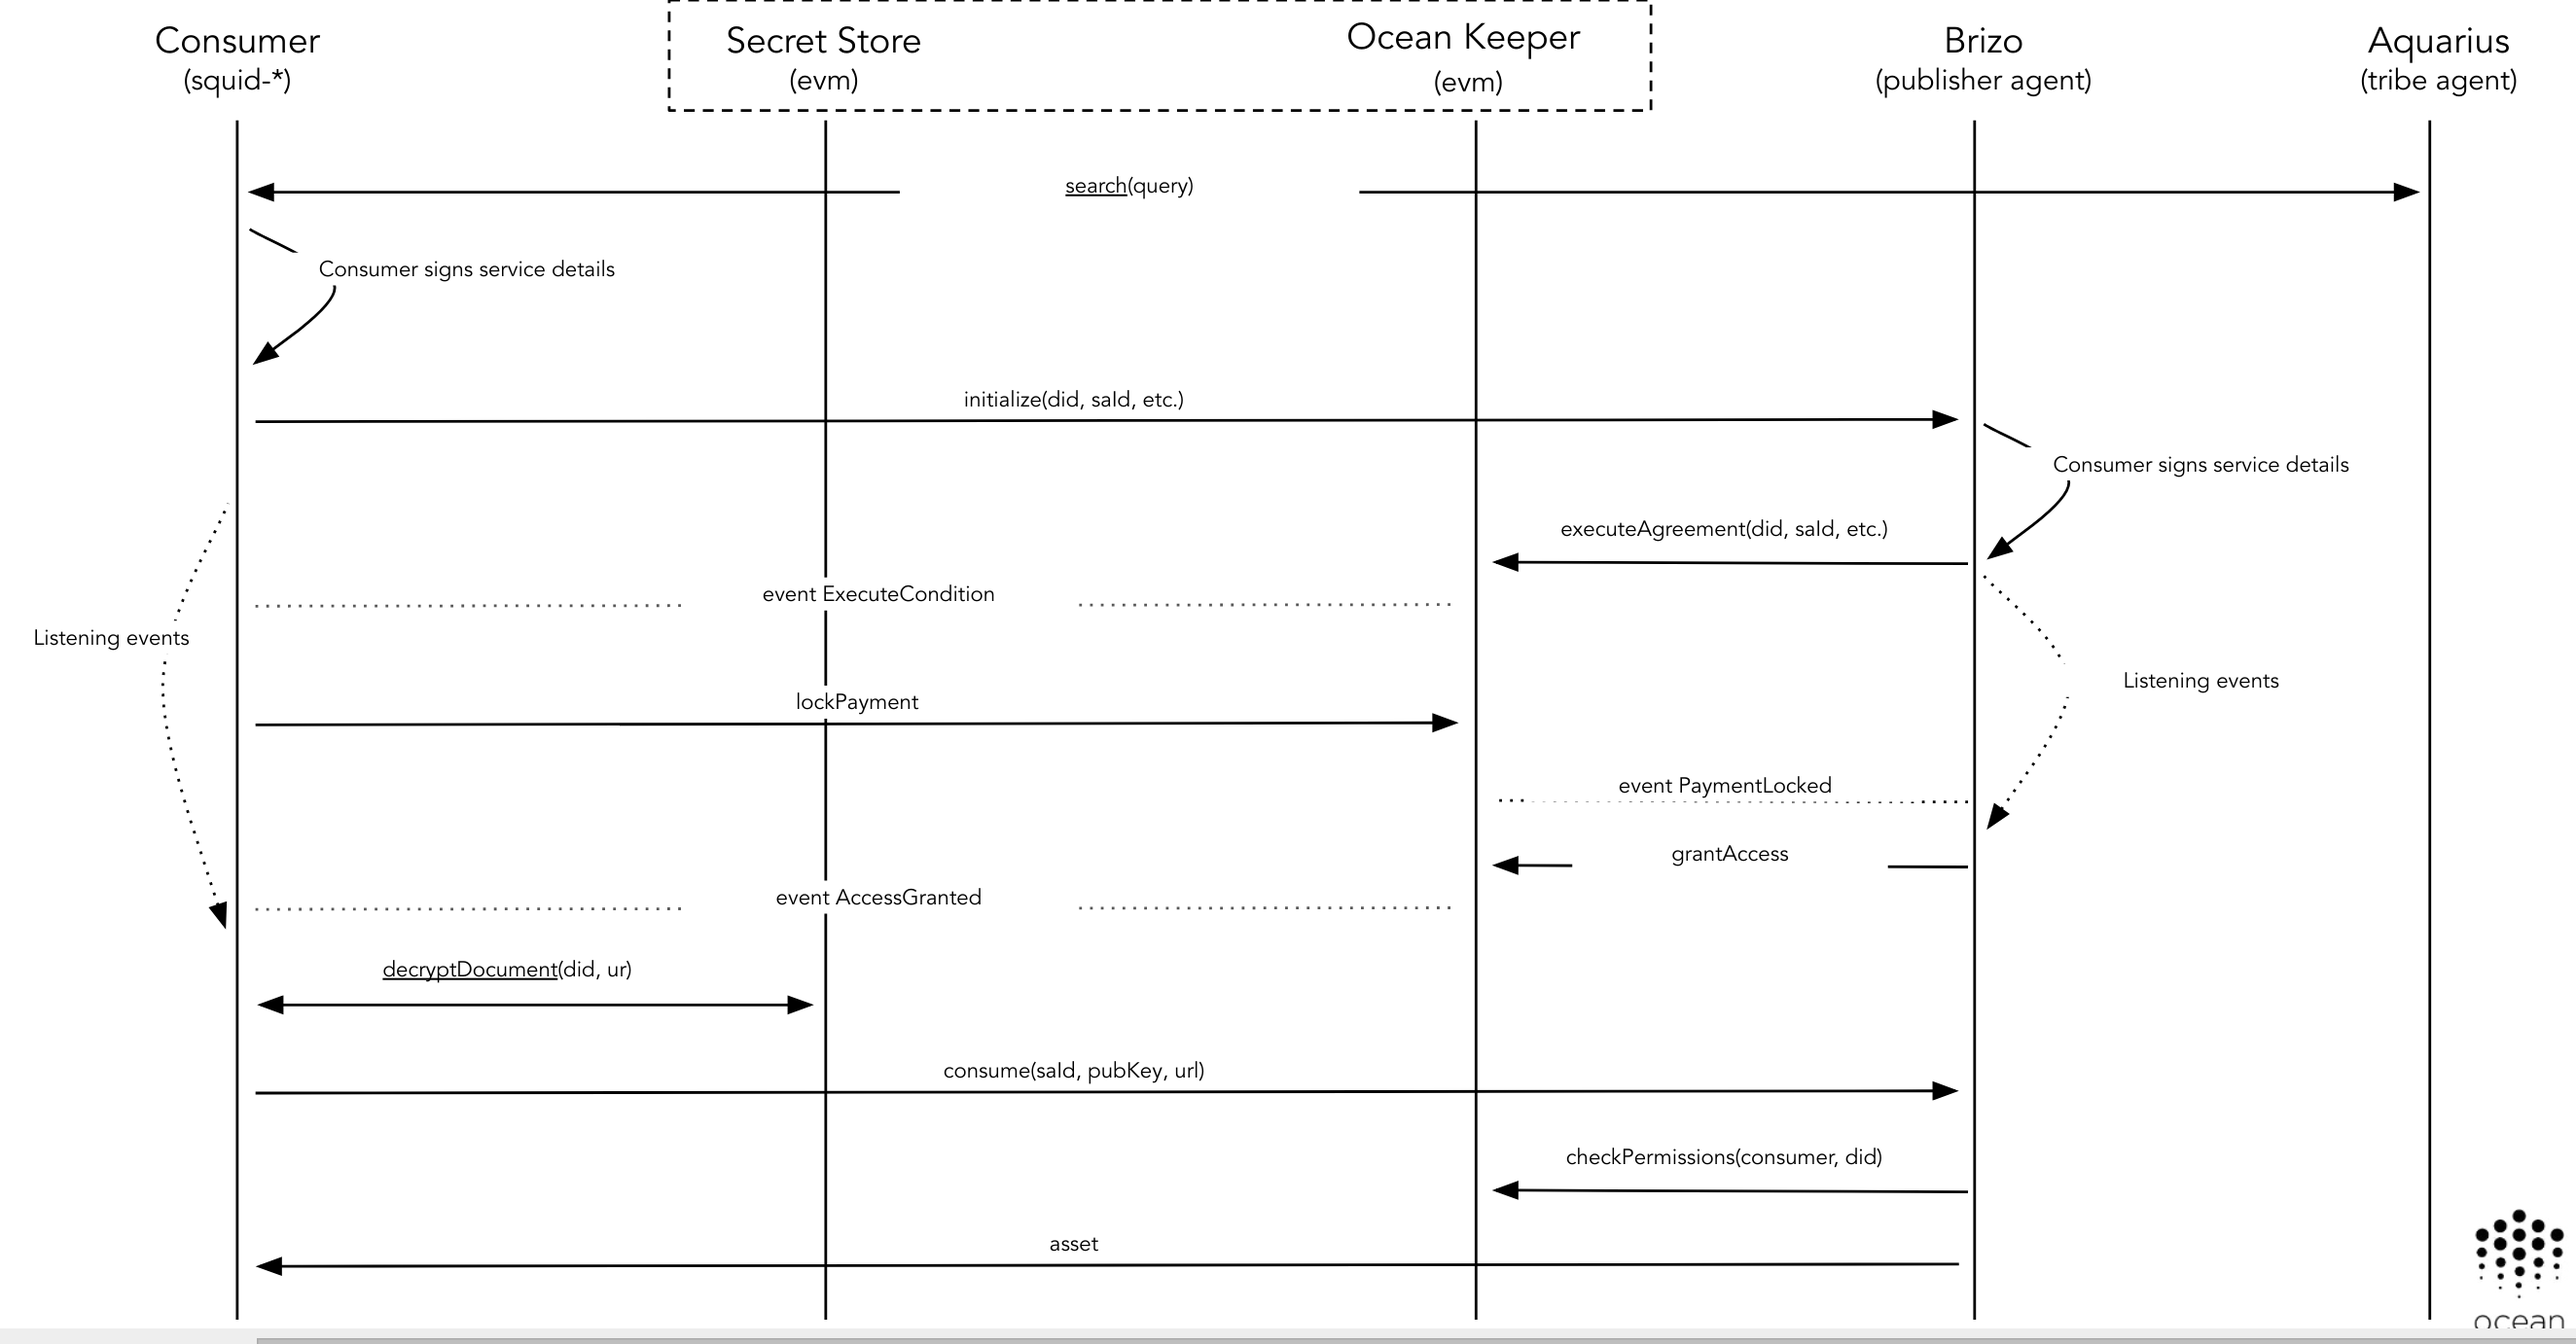
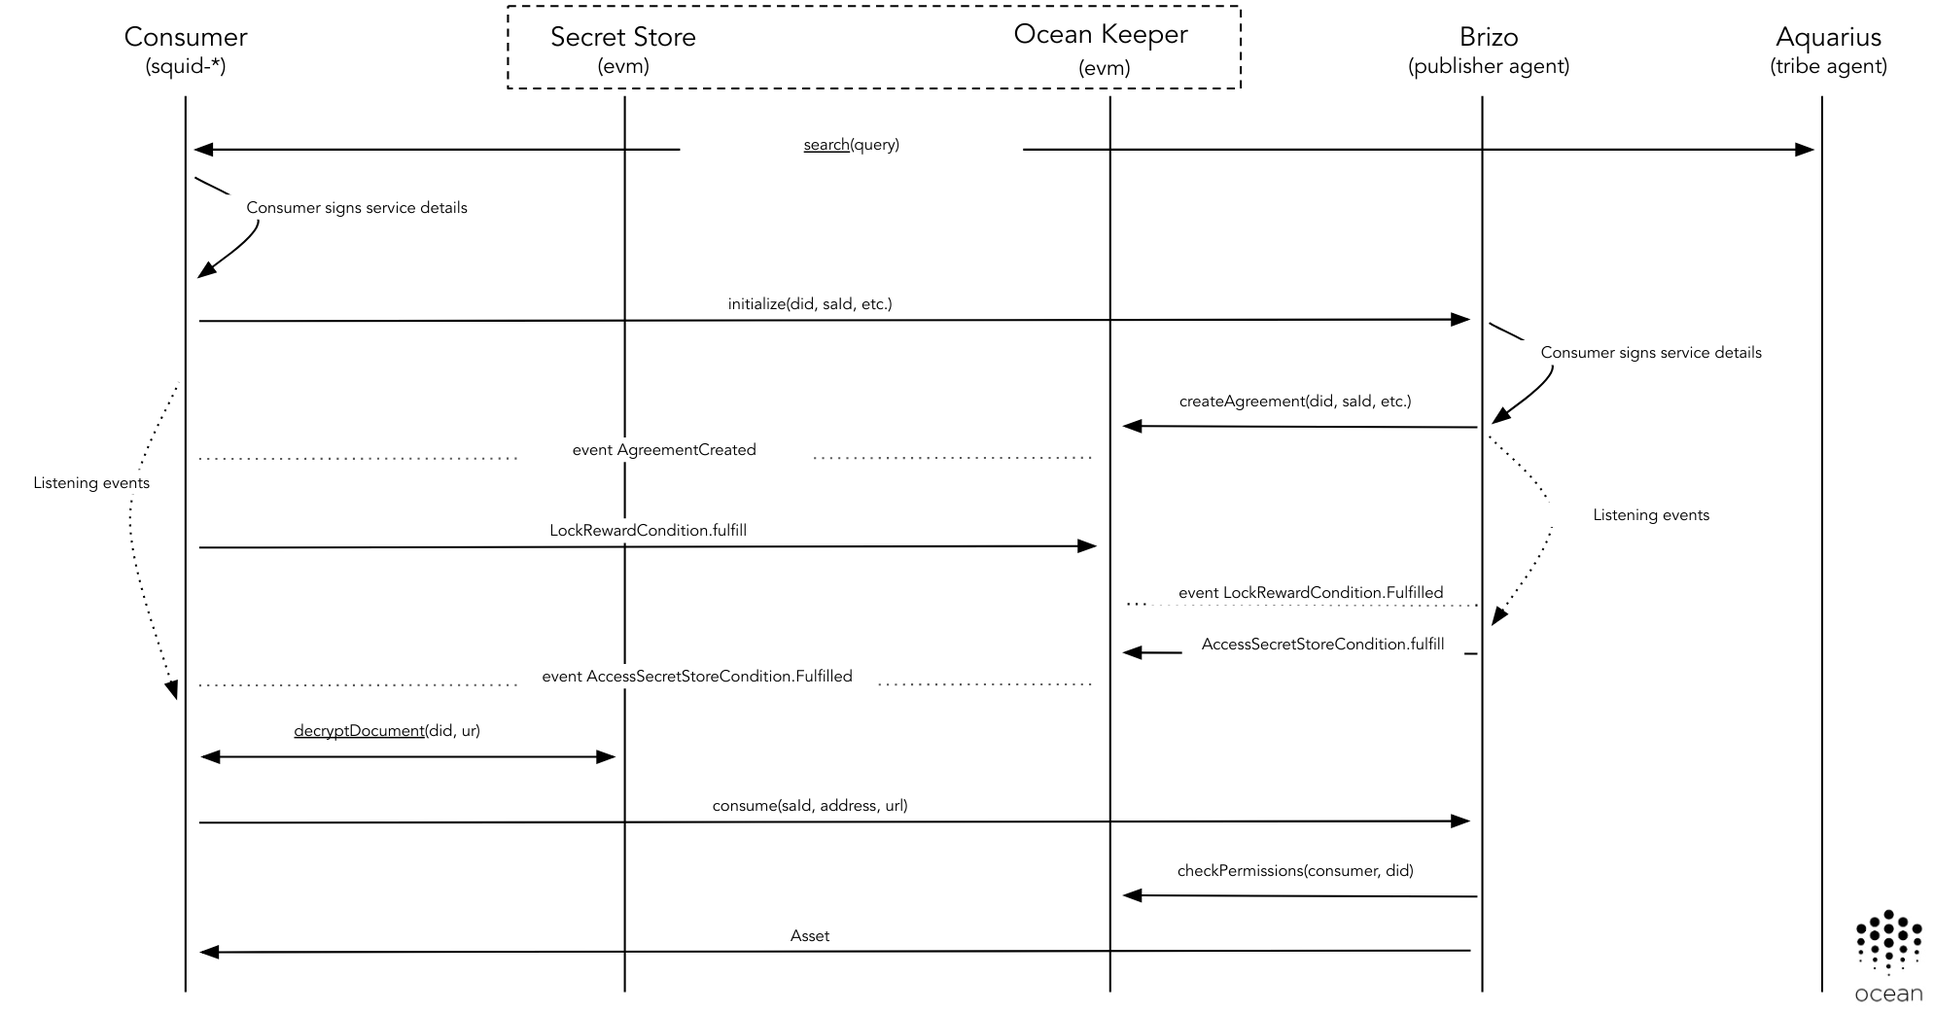
publishing flow

diff --git a/11/README.md b/11/README.md
@@ -186,6 +186,35 @@ The parameters to pass are:
 
 1. The KEEPER will emit the `DIDAttributeRegistered` including the `did`, `checksum` and `url` registered.
 
+
+### EscrowAccessSecretStore Service Agreement Template
+
+1. The EscrowAccessSecretStore Service Agreement template has the following shape:
+
+```
+const agreement = {
+    did: did,
+    conditionIds: [
+        conditionIdAccess,
+        conditionIdLock,
+        conditionIdEscrow
+    ],
+    timeLocks: [timeLockAccess, 0, 0],
+    timeOuts: [timeOutAccess, 0, 0],
+    consumer: receiver
+}
+```   
+
+1. For the different conditionIds, the CONSUMER need to generate those and add to the agreement to be defined on-chain.
+   This requires to generate the hash including the **agreementId** and all the values of the specific condition:
+   
+```   
+const conditionIdAccess = await accessSecretStoreCondition.generateId(agreementId, await accessSecretStoreCondition.hashValues(did, receiver))
+const conditionIdLock = await lockRewardCondition.generateId(agreementId, await lockRewardCondition.hashValues(escrowReward.address, escrowAmount))
+const conditionIdEscrow = await escrowReward.generateId(agreementId, await escrowReward.hashValues(escrowAmount, receiver, sender, conditionIdLock, conditionIdAccess))
+```
+
+
 ### Consuming
 
 Using Squid calls, a CONSUMER can discover, purchase and get access to Assets.
@@ -193,18 +222,18 @@ Using Squid calls, a CONSUMER can discover, purchase and get access to Assets.
 Steps for leveraging Squid:
 
 1. The CONSUMER uses the search method to find relevant Assets related with his query. It returns a list of DDO's.
-   `assets = search("weather Germany 2017")`
+   `assets = ocean.assets.search("weather Germany 2017")`
 
 1. The CONSUMER chooses a service inside a DDO (the CONSUMER selects a `serviceDefinitionId`).
 
-1. The Service Agreement needs to have an associated unique `serviceAgreementId` that can be generated/provided by the CONSUMER.
-In the Smart Contracts, this `serviceAgreementId` will be stored as a `bytes32`. This `serviceAgreementId` is random and is represented by a 64-character hex string (using the characters 0-9 and a-f).
-The CONSUMER can generate the `serviceAgreementId` using any kind of implementation providing enough randomness to generate this ID (64-characters hex string).
+1. The Service Agreement needs to have an associated unique `serviceAgreementId` that can be generated/provided by the CONSUMER.    
+   In the Smart Contracts, this `serviceAgreementId` will be stored as a `bytes32`. This `serviceAgreementId` is random and is represented by a 64-character hex string (using the characters 0-9 and a-f).
+   The CONSUMER can generate the `serviceAgreementId` using any kind of implementation providing enough randomness to generate this ID (64-characters hex string).
 
-1. The CONSUMER signs the service details. There is a particular way of building the signature documented elsewhere.
-The signature contains `(templateId, conditionKeys, valuesHashList, timeoutValues, serviceAgreementId)`. `serviceAgreementId` is provided by the CONSUMER and has to be globally unique.
-  * Each ith item in `values_hash_list` and `timeoutValues` lists corresponds to the ith condition in conditionKeys
-  * `values_hash_list`: a hash of the parameters types and values of each condition
+1. The CONSUMER signs the service details. The signature contains `(templateId, valuesHashList, timeoutValues, serviceAgreementId)`. 
+   The `serviceAgreementId` is provided by the CONSUMER and has to be globally unique.
+   * Each ith item in `values_hash_list` lists corresponds to the ith condition in conditions list
+   * `values_hash_list`: a hash of the parameters types and values of each condition
 ```
 def create_condition_params_hash(parameters_types, parameters_values):
     return web3.Web3.soliditySha3(parameters_types, parameters_values).hex()
@@ -212,19 +241,18 @@ def create_condition_params_hash(parameters_types, parameters_values):
 create_condition_params_hash(['bytes32', 'uint256'], ['0x...', '25'])
 ```
  
-  * `timeoutValues`: list of numbers to specify a timeout value for each condition.
-
 ```
-def generate_service_agreement_hash(web3, sla_template_id, condition_keys, values_hash_list, timeouts, service_agreement_id):
+def generate_service_agreement_hash(web3, sla_template_id, values_hash_list, service_agreement_id):
     return web3.soliditySha3(
-        ['bytes32', 'bytes32[]', 'bytes32[]', 'uint256[]', 'bytes32'],
-        [sa_template_id, condition_keys, values_hash_list, timeouts, service_agreement_id]
+        ['bytes32', 'bytes32[]', 'uint256[]', 'bytes32'],
+        [sa_template_id, values_hash_list, timeouts, service_agreement_id]
     )
 # Sign the agreement hash
 web3_instance.eth.sign(address, generate_service_agreement_hash(...))
 ```
 
-It is used to correlate events and to prevent the PUBLISHER from instantiating multiple Service Agreements from a single request.
+This signature is used to correlate events and to prevent the PUBLISHER from instantiating multiple Service Agreements from a single request.
+
 
 1. The CONSUMER sends `(did, serviceAgreementId, serviceDefinitionId, signature, consumerAddress`) to the service endpoint (BRIZO).
 `serviceDefinitionId` tells the PUBLISHER where to find the preimage to verify the signature. The DID tells the PUBLISHER which Asset to serve under these terms.
@@ -250,13 +278,15 @@ The execution of this endpoint should return a `HTTP 201` if everything goes oka
 
    - BRIZO records the `serviceAgreementId` as corresponding to the given `did`.
 
-   - BRIZO executes the Service Agreement by calling `ServiceAgreement.executeAgreement`, providing it with `serviceAgreementId`, `conditionKeys`, `valuesHashList`, and `timeouts`.
+   - BRIZO executes the Service Agreement by calling `EscrowAccessSecretStoreTemplate.createAgreement`, providing it with the agreementId and all the agreement values
 
    - BRIZO starts listening for the `publisher` events from the events section of the service definition.
 
-1. After receiving the HTTP response confirmation from BRIZO, the CONSUMER starts listening for `consumer` events specified in the corresponding service definition, filtering them by `serviceAgreementId`.
+1. After receiving the HTTP response confirmation from BRIZO, the CONSUMER starts listening for the `AgreementCreated` events specified in the corresponding service definition, filtering them by `serviceAgreementId`.
 
-#### Execution of the SA
+
+
+#### Execution of the SEA
 
 Consider an Asset purchase example. CONSUMER locks the payment. Then PUBLISHER grants access to the document. Then payment is released. Now CONSUMER may decrypt the document.
 
@@ -267,114 +297,107 @@ In general, there is a broad range of conditions which can be implemented and in
 Consider a sample of a service definition.
 
 ```
-"serviceAgreementContract": {
-  "contractName": 'ServiceAgreement',
-  "fulfillmentOperator": 1,
-  "events": [{
-    "name": "ExecuteAgreement",
-    "actorType": "consumer",
-    "handler": {
-      "moduleName": "payment",
-      "functionName": "lockPayment",
-      "version": "0.1"
-    }
-  }]
-}
+"serviceAgreementTemplate": {
+		"contractName": "EscrowAccessSecretStoreTemplate",
+		"events": [{
+			"name": "AgreementCreated",
+			"actorType": "consumer",
+			"handler": {
+				"moduleName": "escrowAccessSecretStoreTemplate",
+				"functionName": "fulfillLockRewardCondition",
+				"version": "0.1"
+			}
+		}]
+  }
 ```
 
-According to this sample, the CONSUMER listens for the `ExecuteAgreement` event emitted in the very beginning of Service Agreement execution, filtering it by `serviceAgreementId`.
+According to this sample, the CONSUMER listens for the `AgreementCreated` event emitted in the very beginning of Service Agreement execution, filtering it by `agreementId`.
 
 Note that the structure of `serviceAgreementContract.events` is identical to `conditions.events`. Squid needs to offer a utility that subscribes the specified callbacks to the events from both lists.
 
-The `payment` module defining the `lockPayment` event handler needs to be implemented in Squid. An example of how it may look:
-
-`modules/v0_1/payment.py`
+When the CONSUMER receives this event means the agreement is in place and can perform the lock reward: 
 
 ```
-def lockPayment(service_agreement_id, service_definition_id, did, price):
-    condition = get_condition(service_definition_id, 'lockPayment')
-    web3.call(condition['condition_key'], condition['fingerprint'], did, price)
+await oceanToken.approve(lockRewardCondition.address, escrowAmount, { from: sender })
+await lockRewardCondition.fulfill(agreementId, escrowReward.address, escrowAmount)
 ```
 
-It emits `PaymentLocked` and thus triggers the next condition. 
+If everything goes right, it will emits `LockRewardCondition.Fulfilled` and thus triggers the next condition. 
 
 ##### Grant Access Condition
 
-PUBLISHER (via BRIZO) listens for `PaymentLocked` event filtered by `serviceAgreementId` to confirm the payment was made.
+PUBLISHER (via BRIZO) listens for `LockRewardCondition.Fulfilled` event filtered by `agreementId` to confirm the reward was locked by the CONSUMER.
 
 ```
 "conditions": [{
   "events": [{
-    "name": "PaymentLocked",
-    "actorType": ["publisher"],
-    "handler": {
-      "moduleName": "secretStore",
-      "functionName": "grantAccess",
-      "version": "0.1"
-    }
-  }]
+        "name": "Fulfilled",
+        "actorType": "publisher",
+        "handler": {
+            "moduleName": "lockRewardCondition",
+            "functionName": "fulfillAccessSecretStoreCondition",
+            "version": "0.1"
+        }
+    }]
 }]
 ```
 
-The corresponding module with the event handler needs to be implemented in Squid and used by Brizo. An example of this is:
-
-`modules/v0_1/secretStore.py`
+In that case the PUBLISHER can grant access to the CONSUMER for a specific `agreementId` and `documentId` using in this case the `AccessSecretStoreCondition.fulfill`:
 
 ```
-def grantAccess(service_agreement_id, service_definition_id, consumer_public_key):
-    public_key = get_public_key_by_service_id(service_agreement_id)
-    did = get_did(service_agreement_id)
-    condition = get_condition(service_definition_id, 'grantAccess')
-    web3.call(condition['condition_key'], condition['fingerpint'], public_key, did)
+await accessSecretStoreCondition.fulfill(agreementId, agreement.did, receiver)
 ```
+
+If everything goes right, it will emits the `AccessSecretStoreCondition.Fulfilled` event. 
+
+
 
 ##### Release Payment Condition
 
-PUBLISHER (via BRIZO) listens for `AccessGranted` event to transfer tokens to PUBLISHER's account.
+PUBLISHER (via BRIZO) listens for `AccessSecretStoreCondition.Fulfilled` event to transfer tokens to PUBLISHER's account.
 
 ```
 "conditions": [{
-  "events": [{
-    "name": "AccessGranted",
-    "actorType": ["publisher"],
-    "handler": {
-      "moduleName": "payment",
-      "functionName": "releasePayment",
-      "version": "0.1"
-    }
-  }]
+    "events": [{
+        "name": "Fulfilled",
+        "actorType": "publisher",
+        "handler": {
+            "moduleName": "accessSecretStore",
+            "functionName": "fulfillEscrowRewardCondition",
+            "version": "0.1"
+        }
+    }]
 }]
 ```
 
-`Release payment`, being the last condition of the agreement, finalises the agreement and emits `AgreementFulfilled`.
-
-`modules/v0_1/payment.py`
+So when the PUBLISHER received the `AccessSecretStoreCondition.Fulfilled` can call the `EscrowReward.fulfill` method to receive the reward:
 
 ```
-def releasePayment(service_agreement_id, service_definition_id, did, price):
-    condition = get_condition(service_definition_id, 'releasePayment')
-    web3.call(condition['condition_key'], condition['fingerprint'], did, price)
+await escrowReward.fulfill(agreementId, escrowAmount, receiver, sender, agreement.conditionIds[1], agreement.conditionIds[0])
 ```
 
 ### Consuming the Data
 
-CONSUMER (via Squid) listens for `AccessGranted` event to access the document.
+CONSUMER (via Squid) listens for `AccessSecretStoreCondition.Fulfilled` event to access the document.
 
 ```
-{
-  "name": "AccessGranted",
-  "actorType": ["consumer"],
-  "handler": {
-      "moduleName": "consumer",
-      "functionName": "retrieveData",
-      "version": "0.1"
-  }
-}
+"conditions": [{
+    "events": [{{
+        "name": "TimedOut",
+        "actorType": "consumer",
+        "handler": {
+            "moduleName": "accessSecretStore",
+            "functionName": "fulfillEscrowRewardCondition",
+            "version": "0.1"
+        }
+    }]
+}]
 ```
 
 The following are steps that have to be performed by the CONSUMER to receive the data.
 
-1. CONSUMER decrypts the URL using Squid. This only requires the encryptedUrl existing in the DDO and the DID. A remote Parity EVM client and Secret Store cluster can be used for that.
+1. CONSUMER decrypts the URL using Squid. This only requires the encryptedUrl existing in the DDO and the DID. 
+   A Parity EVM client (local or remote) and Secret Store cluster can be used for that.
 
 1. CONSUMER retrieves data by calling the dedicated BRIZO endpoint providing it with CONSUMER public key, service ID, and decrypted URL.
 
@@ -403,17 +426,13 @@ Using those parameters, BRIZO does the following things:
 ![Consuming Flow](images/consuming-flow.png)
 
 
-#### Cancel Payment Condition
+#### Abort Conditions
 
-Every condition can be forced to be fulfilled by one of the parties after a configured timeout, even when its dependencies are not fulfilled. It allows CONSUME to cancel the payment after locking it but not receiving access to the Asset for a long period of time. Mechanisms implemented in the Service Agreement contract ensure there are no race conditions.
+Every condition can be fulfilled or aborted configured timeout. 
+For example it would allows to the CONSUMER to cancel the payment after locking it but not receiving access to the Asset for a long period of time. 
+Mechanisms implemented in the Service Agreement contract ensure there are no race conditions.
 
-Squid has to contain a function like the following and offer a convenient way to call it (via CLI, UI, etc.).
 
-```
-def cancel_payment(service_agreement_id, service_definition_id):
-    condition = get_condition(service_definition_id, 'cancelPayment')
-    web3.call(condition['condition_key'], condition['fingerprint'])
-```
 
 ### Encryption and Decryption
 
